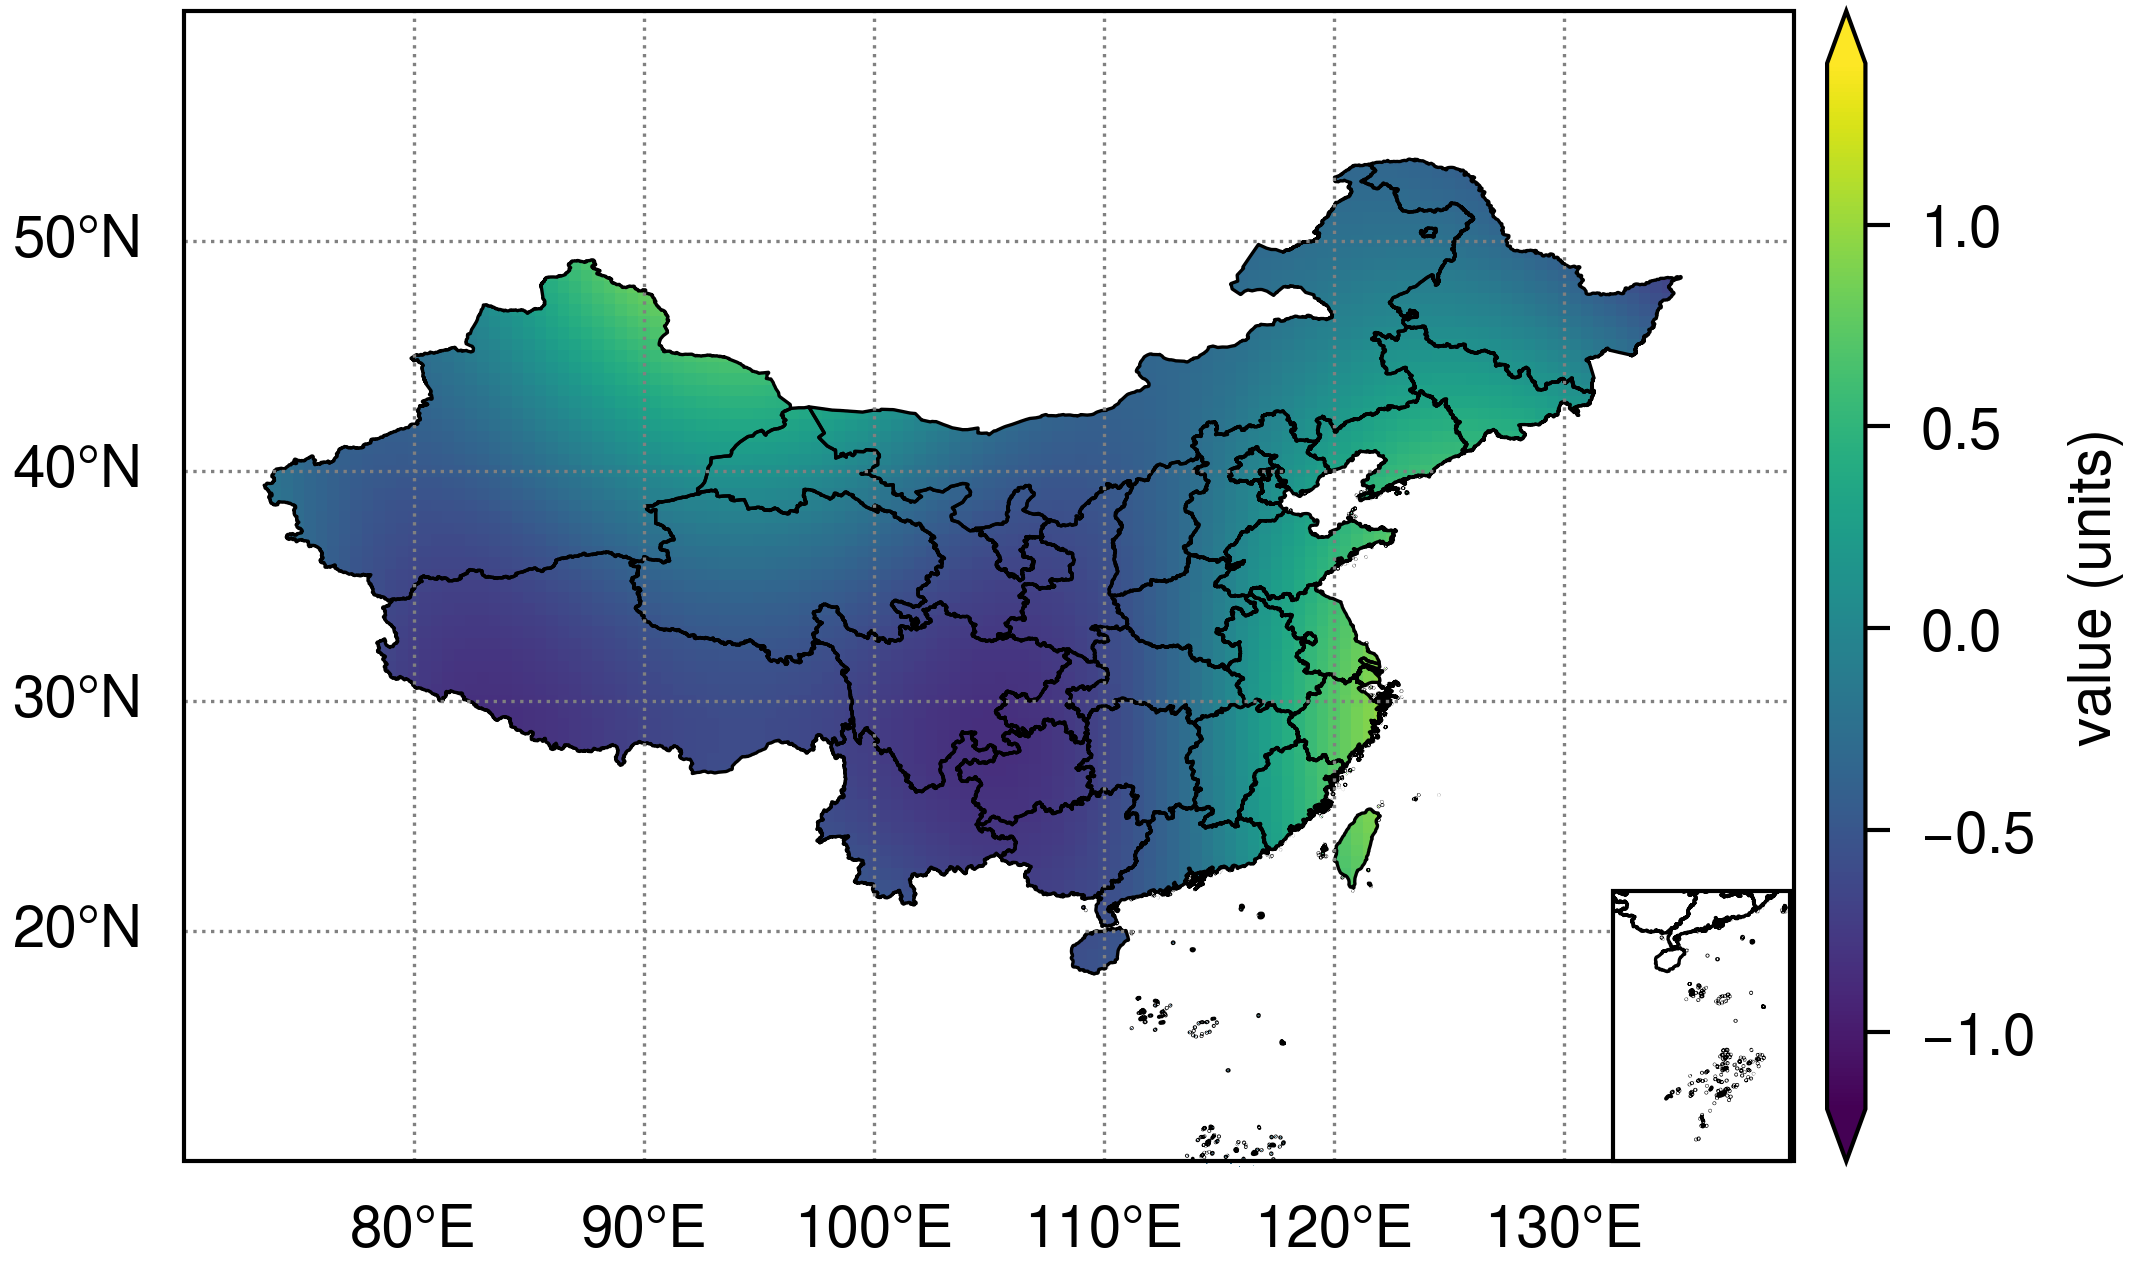
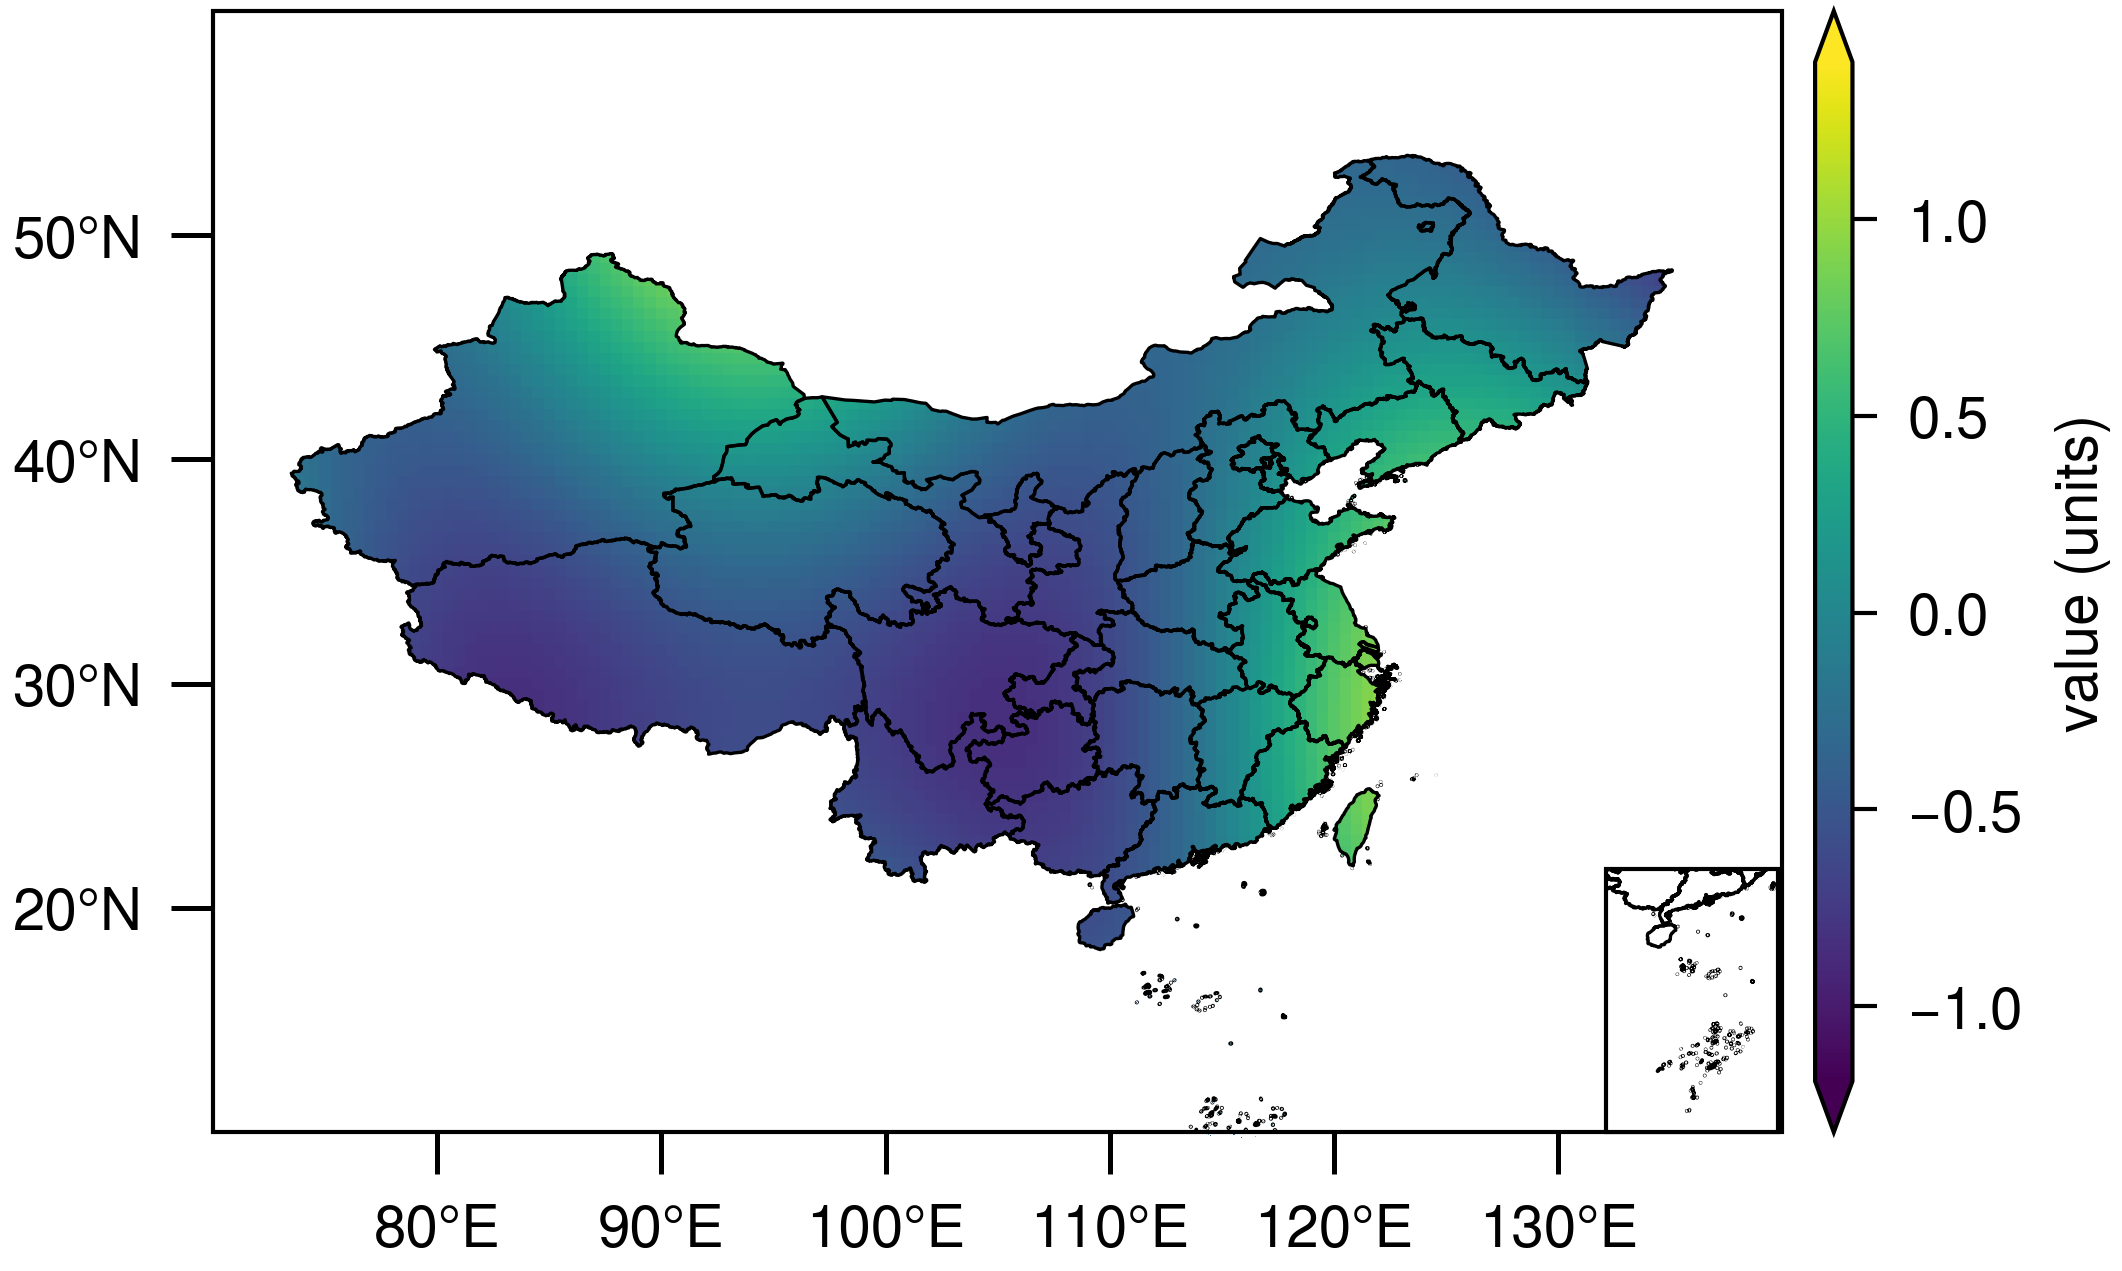
fix: reliable outward lon/lat ticks on china map, no graticule
The cartopy gridliner's redraw clipped the outward matplotlib ticks
nondeterministically (they vanished on some runs). Drop the gridliner;
let the axes own ticks + degree labels via set_xticks/Lon-LatFormatter,
direction=out. Renders consistently.

diff --git a/examples/maps/china_provinces.py b/examples/maps/china_provinces.py
@@ -42,6 +42,7 @@ Run::
 import os
 
 import cartopy.crs as ccrs
+from cartopy.mpl.ticker import LongitudeFormatter, LatitudeFormatter
 import matplotlib.pyplot as plt
 import numpy as np
 
@@ -92,13 +93,14 @@ def main():
 
     ax.set_extent(EXTENTS_MAIN, crs=PROJ)
 
-    # lon/lat graticule + degree ticks on x and y (cartopy equivalent of salem's
-    # m.set_lonlat_contours(add_xtick=True, add_ytick=True, linewidth=0.4)).
-    gl = ax.gridlines(draw_labels=True, color="gray", linewidth=0.4,
-                      linestyle="dotted", transform=PROJ)
-    gl.top_labels = gl.right_labels = False
-    gl.rotate_labels = False
-    epl.cartopy_plot_tickmarks(ax, gl)
+    # Real lon/lat axis ticks with degree labels, owned by the matplotlib axes.
+    # (Don't use a cartopy gridliner for this: its redraw clips outward ticks
+    # unreliably, so they sometimes vanish.) Ticks point OUT to each lon/lat.
+    ax.set_xticks(np.arange(80, 131, 10), crs=PROJ)
+    ax.set_yticks(np.arange(20, 51, 10), crs=PROJ)
+    ax.xaxis.set_major_formatter(LongitudeFormatter())
+    ax.yaxis.set_major_formatter(LatitudeFormatter())
+    ax.tick_params(direction="out", length=5, width=0.6)
 
     # 3) Colourbar — placed by the layout engine, then clamped to the map height.
     cb = fig.colorbar(mesh, ax=ax, fraction=0.046, pad=0.02, aspect=30,
